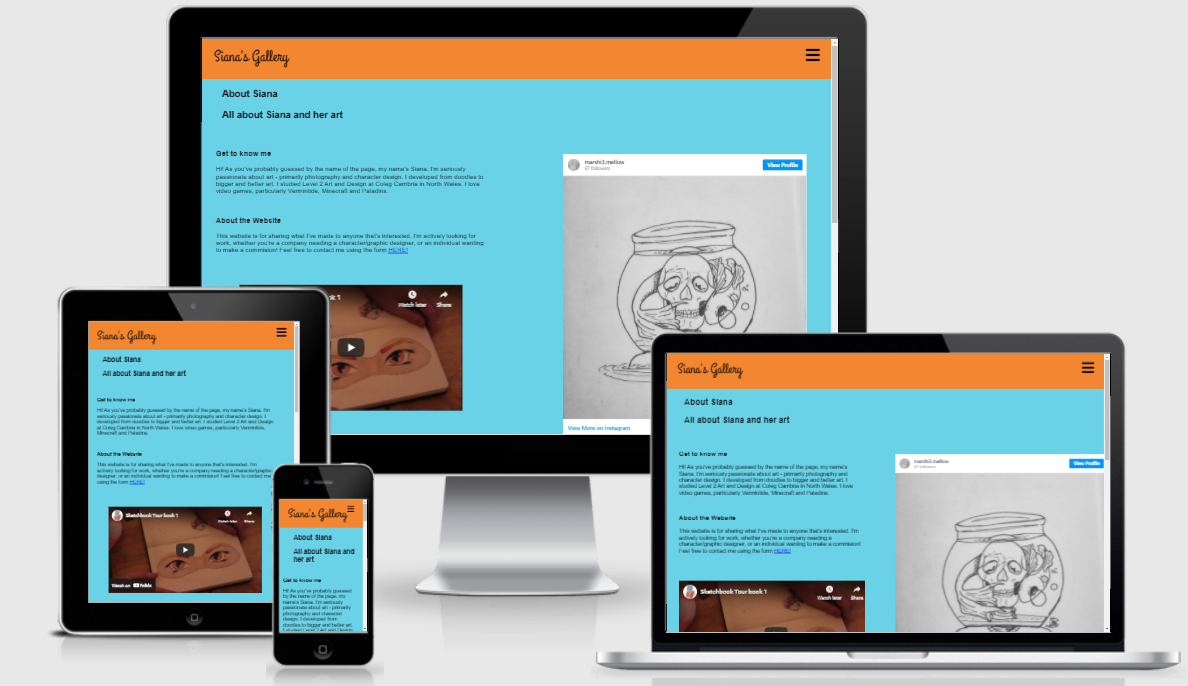
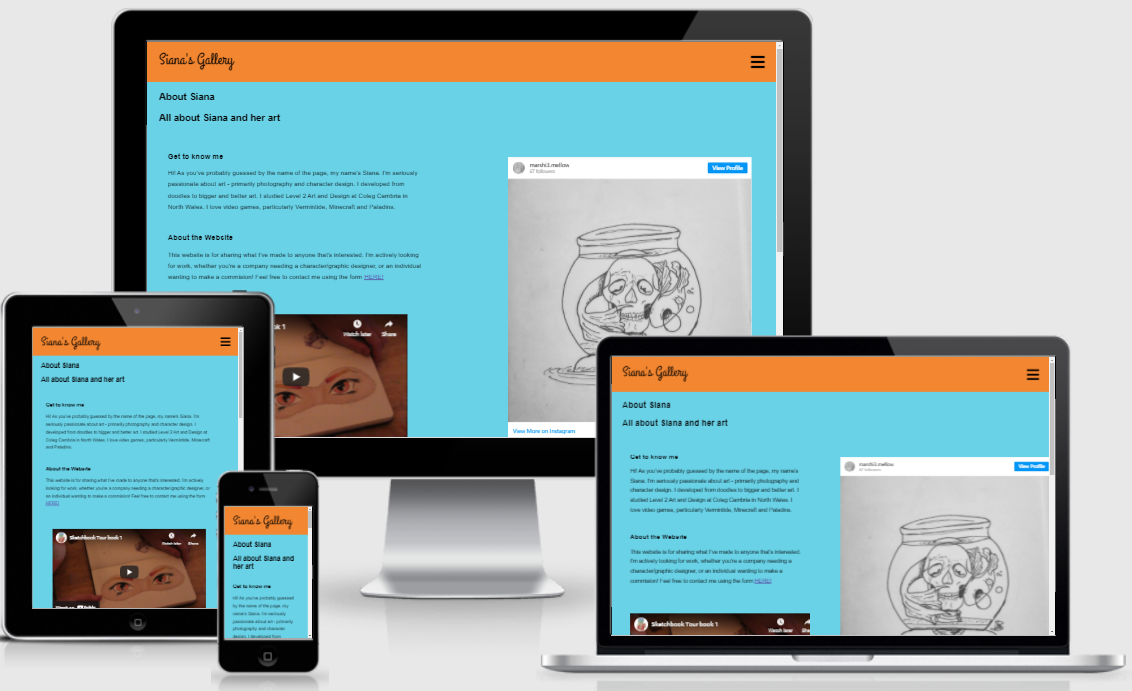
Added to README.md and changed images to accomodate for style changes

diff --git a/assets/css/style.css b/assets/css/style.css
@@ -255,8 +255,8 @@ footer a:hover i.fa-twitter-square {
 #index-header {
 	font-size: 70px;
 	font-weight: 300;
-	margin: 0 0 15px 50px;
-	padding: 25px 0;
+	margin: 0 0 0 50px;
+	padding: 10px 0 10px 0;
 	font-family: 'Grand Hotel', Helvetica, sans-serif
 }
 

diff --git a/README.md b/README.md
@@ -137,7 +137,7 @@ The 404 page shows when the user goes to an incorrect URL. It includes the burge
 
 This section will be for testing the website and ensuring that functionality and responsivity work as expected.
 
-### Bugs and errors
+### Known Bugs and errors
 
 #### 26/06/2021 - Instagram Embedded Post (FIXED)
 - Post functions normally under desktop conditions using a vertical scroll bar to view the whole post
@@ -178,10 +178,16 @@ This section will be for testing the website and ensuring that functionality and
 - I know that this is not user friendly, but due to time contraints and the fact it happens on very few screen sizes this is an issue that may have to be fixed fully at a later date.
 - When trying to repeat the issue on the deployed site, the issue does not exist. I left enough time to ensure that Github pages had updated to make sure that the problem was fixed. 
 
-### Testing Responsiveness
+#### 30/06/2021 - Burger button on very small mobiles not visible (FIXED)
+- When using ami.responsivedesign.is the burger button is not visible on the small phone displayed.
+- Luckily, I had already made it so that the logo could be clicked to take the user to index.html
+- This is not perfect, and in the future it'd be nice to have the logo move to two lines so that the burger button can still be displayed but in the mean time the user is still able to navigate the website successfully.
+
+### Testing Responsiveness and functionality
+The below table details testing of the responsiveness of the site as well as functionality on different browsers. 
 <table>
 <tr>
-<td> TOOL/DEVICE </td><td> BROWSER </td><td> OPERATING SYSTEM </td><td>SCREEN SIZE</td><td>RESULT</td>
+<td><STRONG> TOOL/DEVICE </STRONG</td><td><STRONG> BROWSER </STRONG></td><td><STRONG> OPERATING SYSTEM </STRONG></td><td><STRONG>SCREEN SIZE</STRONG></td><td><STRONG>RESULT</STRONG></td>
 </tr>
 <tr>
 <td>REAL: Oppo Find X2 Lite</td><td>Opera Browser</td><td>Android 11</td><td>W1080px X H2400px</td><td>index.html: no issues. photography.html: no issues. characterdesign.html: no issues. about.html: no issues. </td>
@@ -200,6 +206,20 @@ This section will be for testing the website and ensuring that functionality and
 </tr>
 <tr>
 <td>CHROME: iPad</td><td>Chrome Dev Tools</td><td>Windows 10</td><td>W768px x H1024px</td><td>No issues found</td>
+</tr>
+<tr>
+<td>Thin laptop</td>
+<td>Internet Explorer 11</td>
+<td>Windows 10</td>
+<td>W1920px x H1080px</td>
+<td>Site logo pushes down images, hiding text a little bit under footer - decreased padding to compensate</td>
+</tr>
+<tr>
+<td>Thin laptop</td>
+<td>Microsoft Edge</td>
+<td>Windows 10</td>
+<td>W1920px x H1080px</td>
+<td>No issues found</td>
 </tr>
 </table>
 <br>
